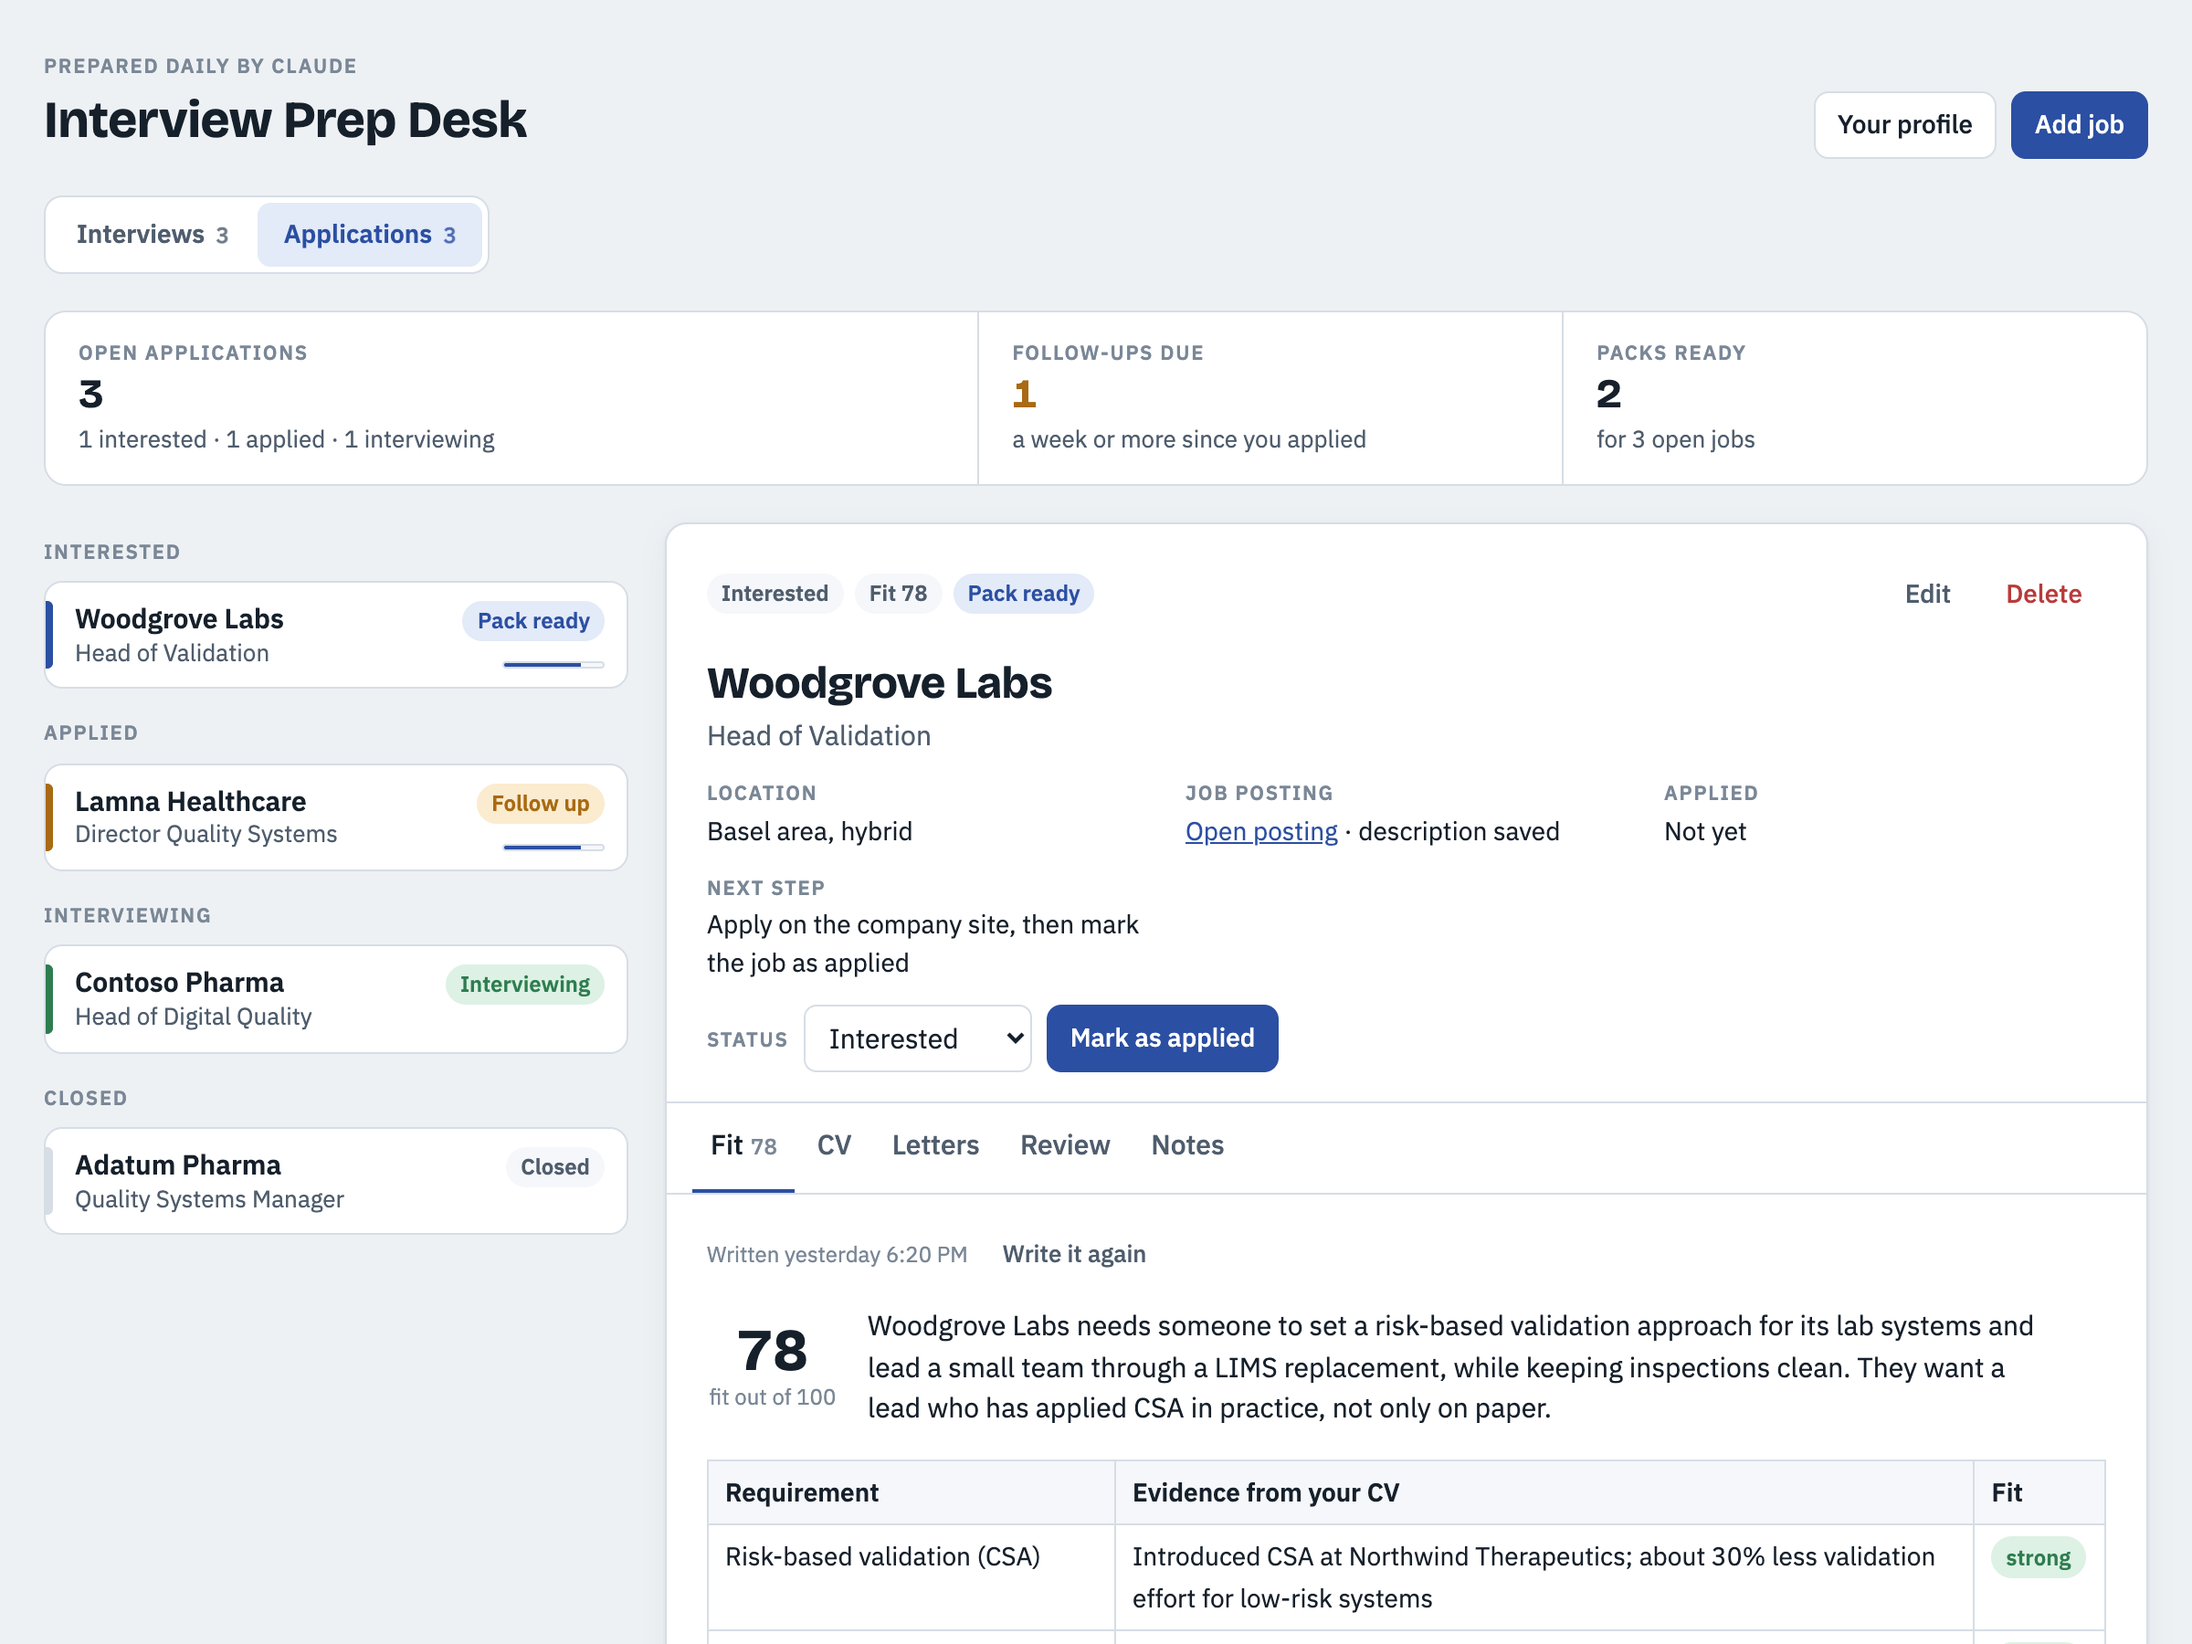
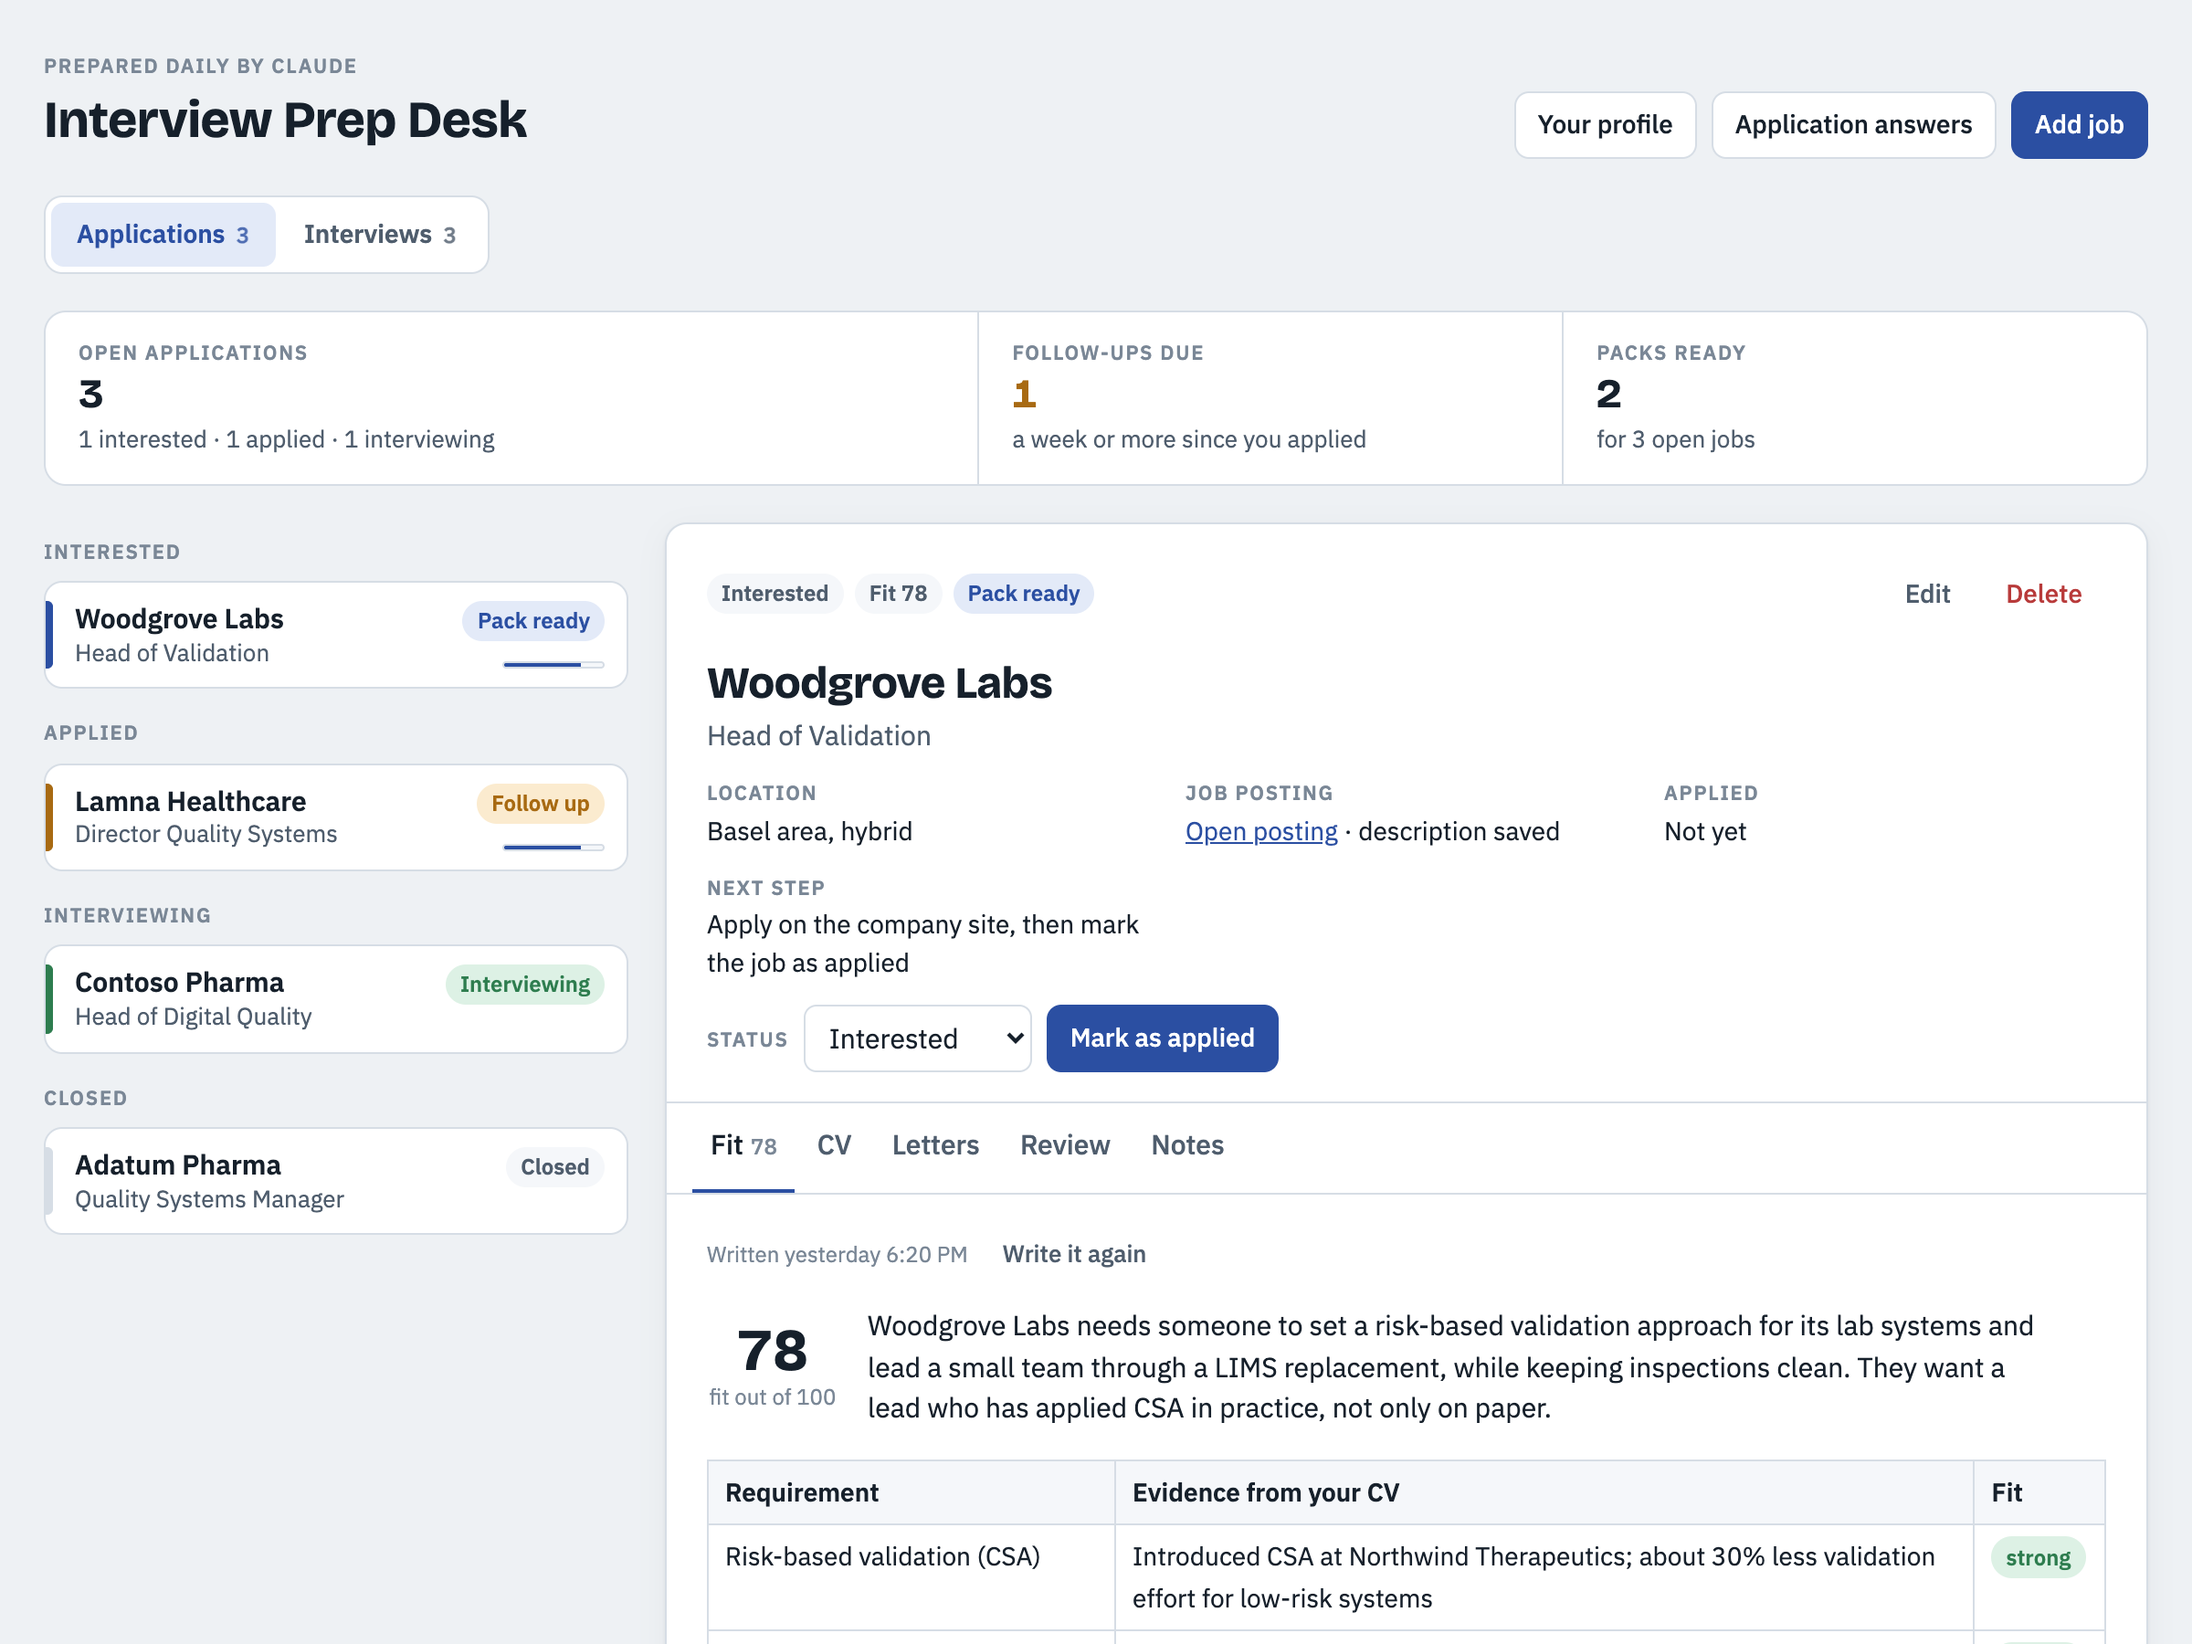
Dashboard: put Applications before Interviews (core 0.3.1)

Changed region(s): [[0.0, 0.1244, 0.2188, 0.1867], [0.7812, 0.0622, 0.9062, 0.0933], [0.7188, 0.0622, 0.75, 0.0933]]

diff --git a/plugins/interview-prep-desk/dashboard/interview-prep-desk.html b/plugins/interview-prep-desk/dashboard/interview-prep-desk.html
@@ -1042,7 +1042,7 @@ function removeJob(id){
 function setView(v){ S.view = v === 'jobs' ? 'jobs' : 'interviews'; S.confirmDel = S.jconfirmDel = false; S.dlMsg = ''; tryLS(() => localStorage.setItem('prep.view', S.view)); render(); }
 function renderViews(){
   const open = S.jobs.filter(j => j.status !== 'closed').length;
-  $('#views').innerHTML = [['interviews','Interviews',S.items.length],['jobs','Applications',open]]
+  $('#views').innerHTML = [['jobs','Applications',open],['interviews','Interviews',S.items.length]]
     .map(([k,l,n]) => `<button type="button" role="tab" data-view="${k}" aria-selected="${S.view===k}">${l}${n?`<span class="n">${n}</span>`:''}</button>`).join('');
 }
 function renderJobStrip(){

diff --git a/docs/guide.md b/docs/guide.md
@@ -104,7 +104,7 @@ Then it:
 
 ## Step 3. Apply for jobs
 
-Before there is an interview, the dashboard's **Applications** section keeps the jobs you are considering, writes an application pack for each and reminds you to follow up. Switch between **Interviews** and **Applications** at the top of the dashboard.
+Before there is an interview, the dashboard's **Applications** section keeps the jobs you are considering, writes an application pack for each and reminds you to follow up. Switch between **Applications** and **Interviews** at the top of the dashboard.
 
 **Add a job with a command.** Pass the job link:
 

diff --git a/README.md b/README.md
@@ -8,7 +8,7 @@ Add a job you want, and Claude writes an application pack from your CV: a fit an
 
 New here? The [step-by-step guide](docs/guide.md) takes you from install to interview day, with the exact commands and screenshots.
 
-> Status: early (core 0.3.0). Built for personal use and shared as is.
+> Status: early (core 0.3.1). Built for personal use and shared as is.
 
 ## What you get
 
